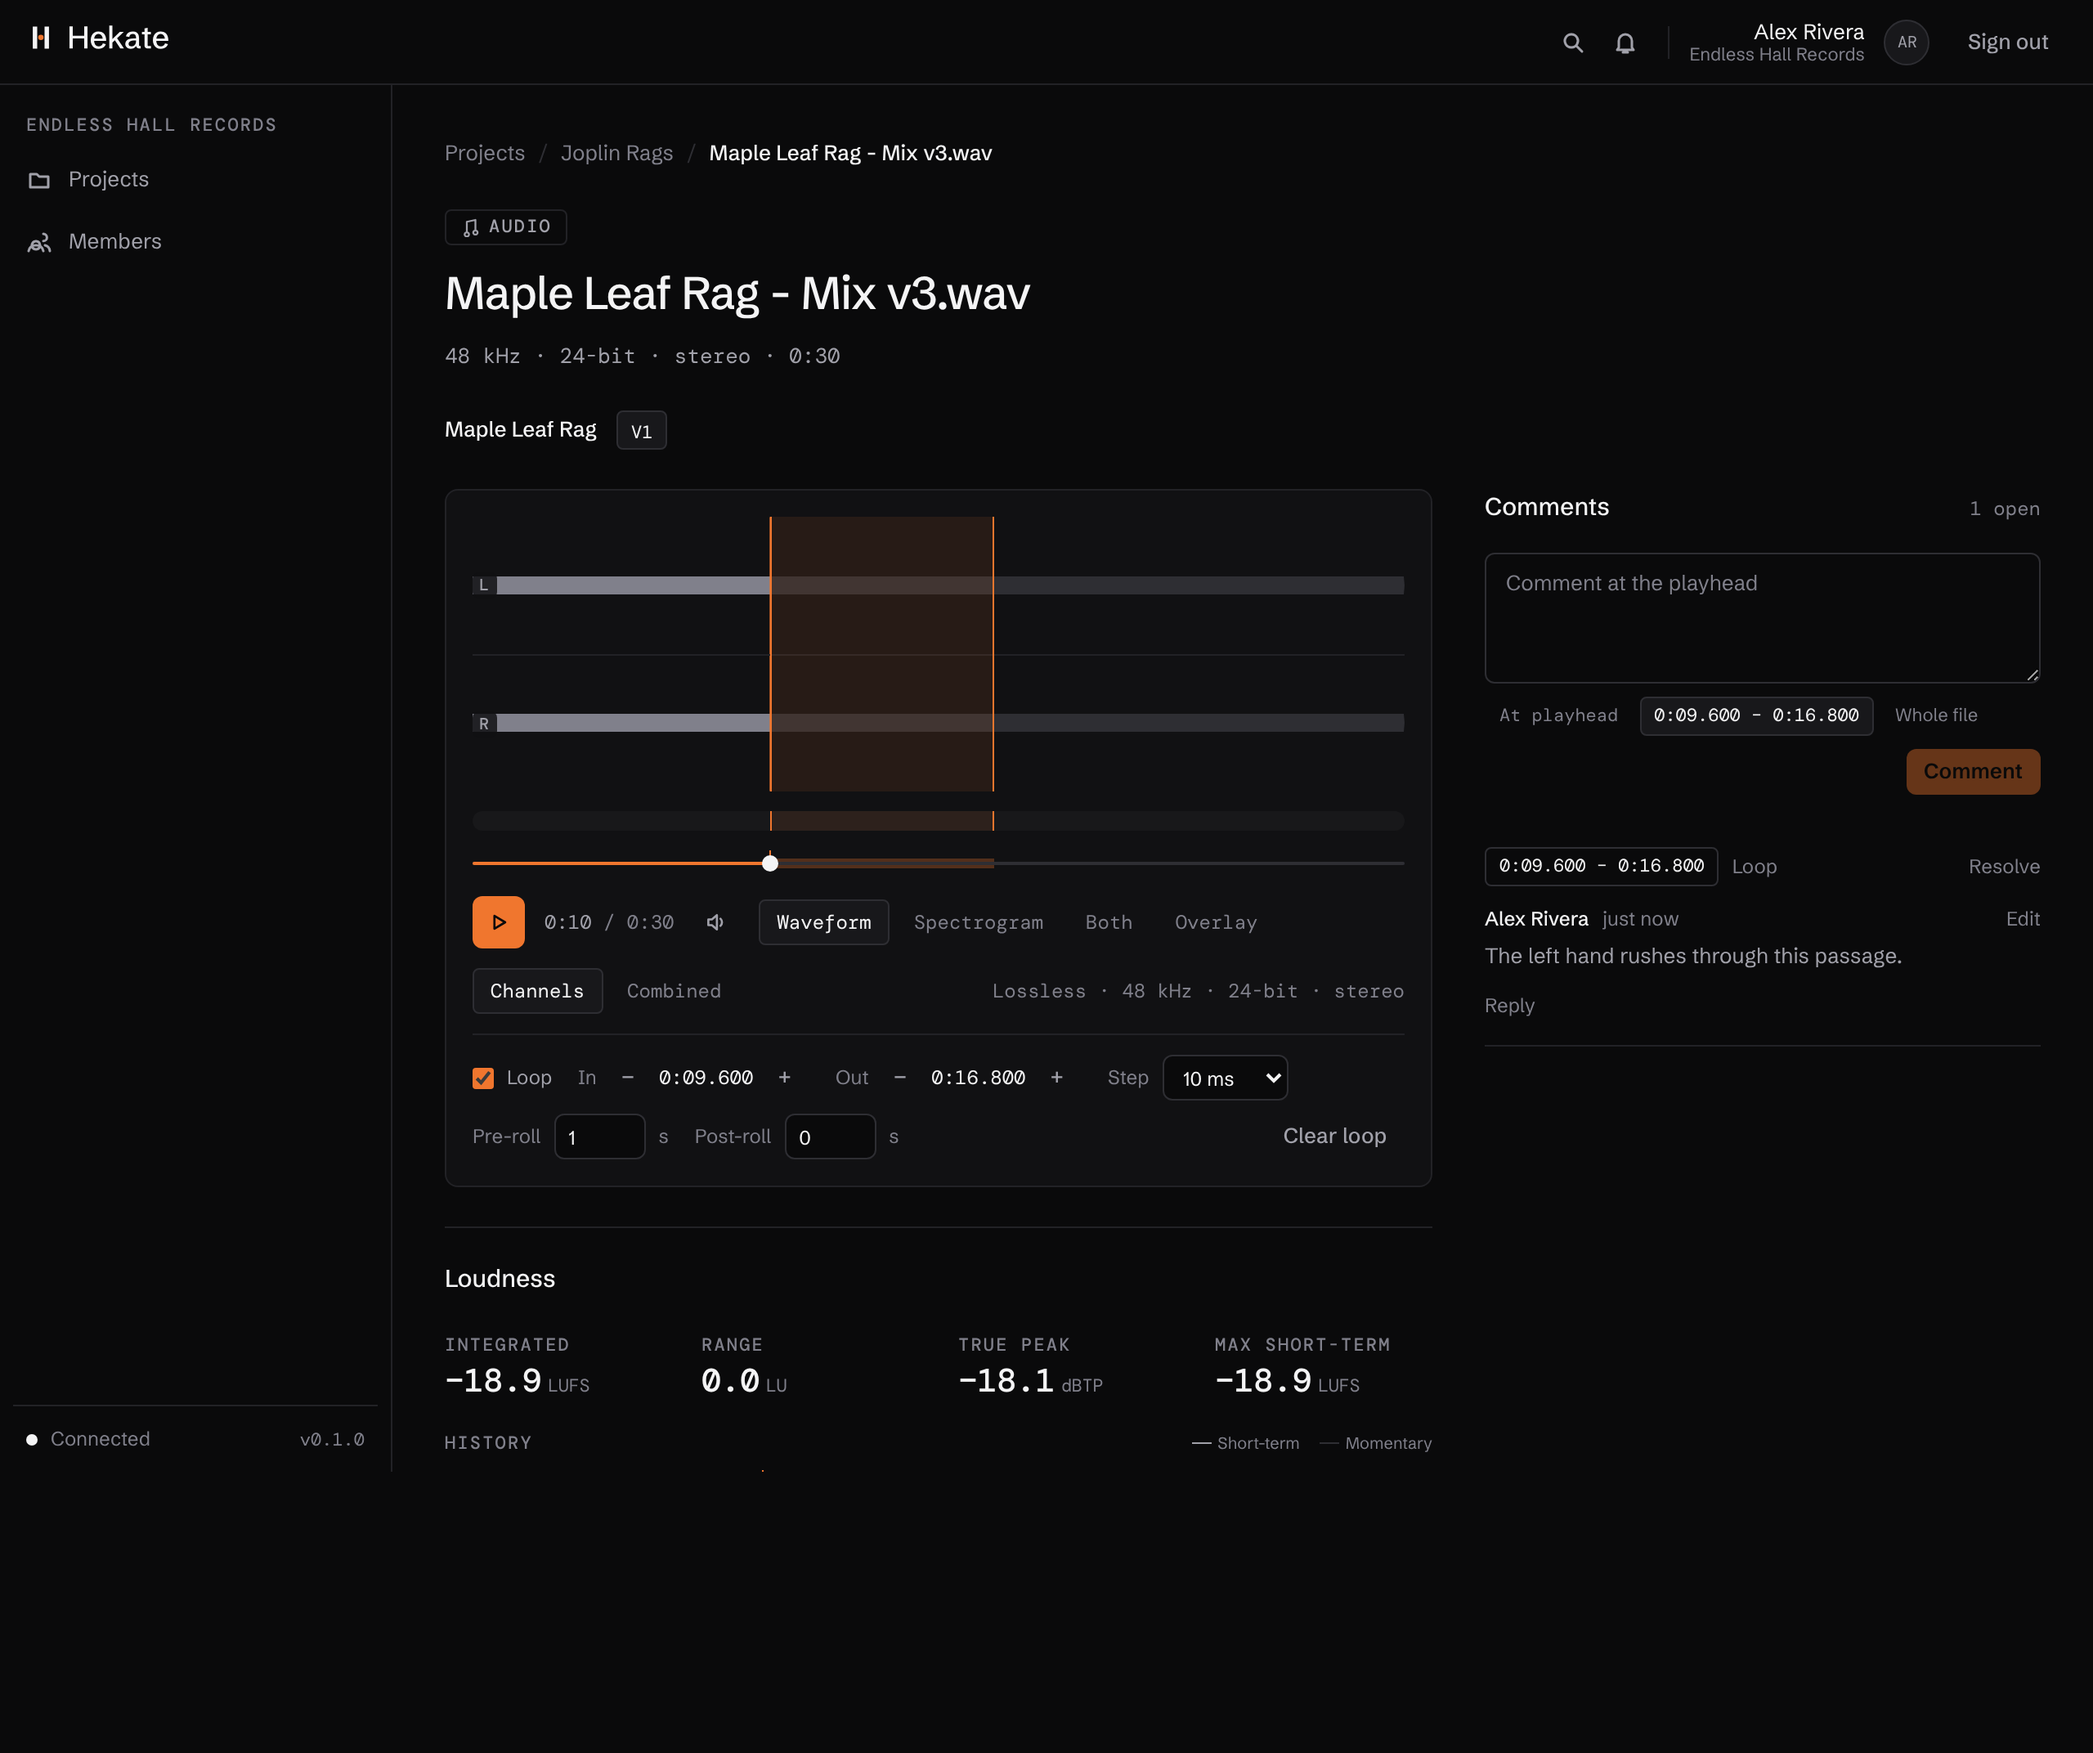
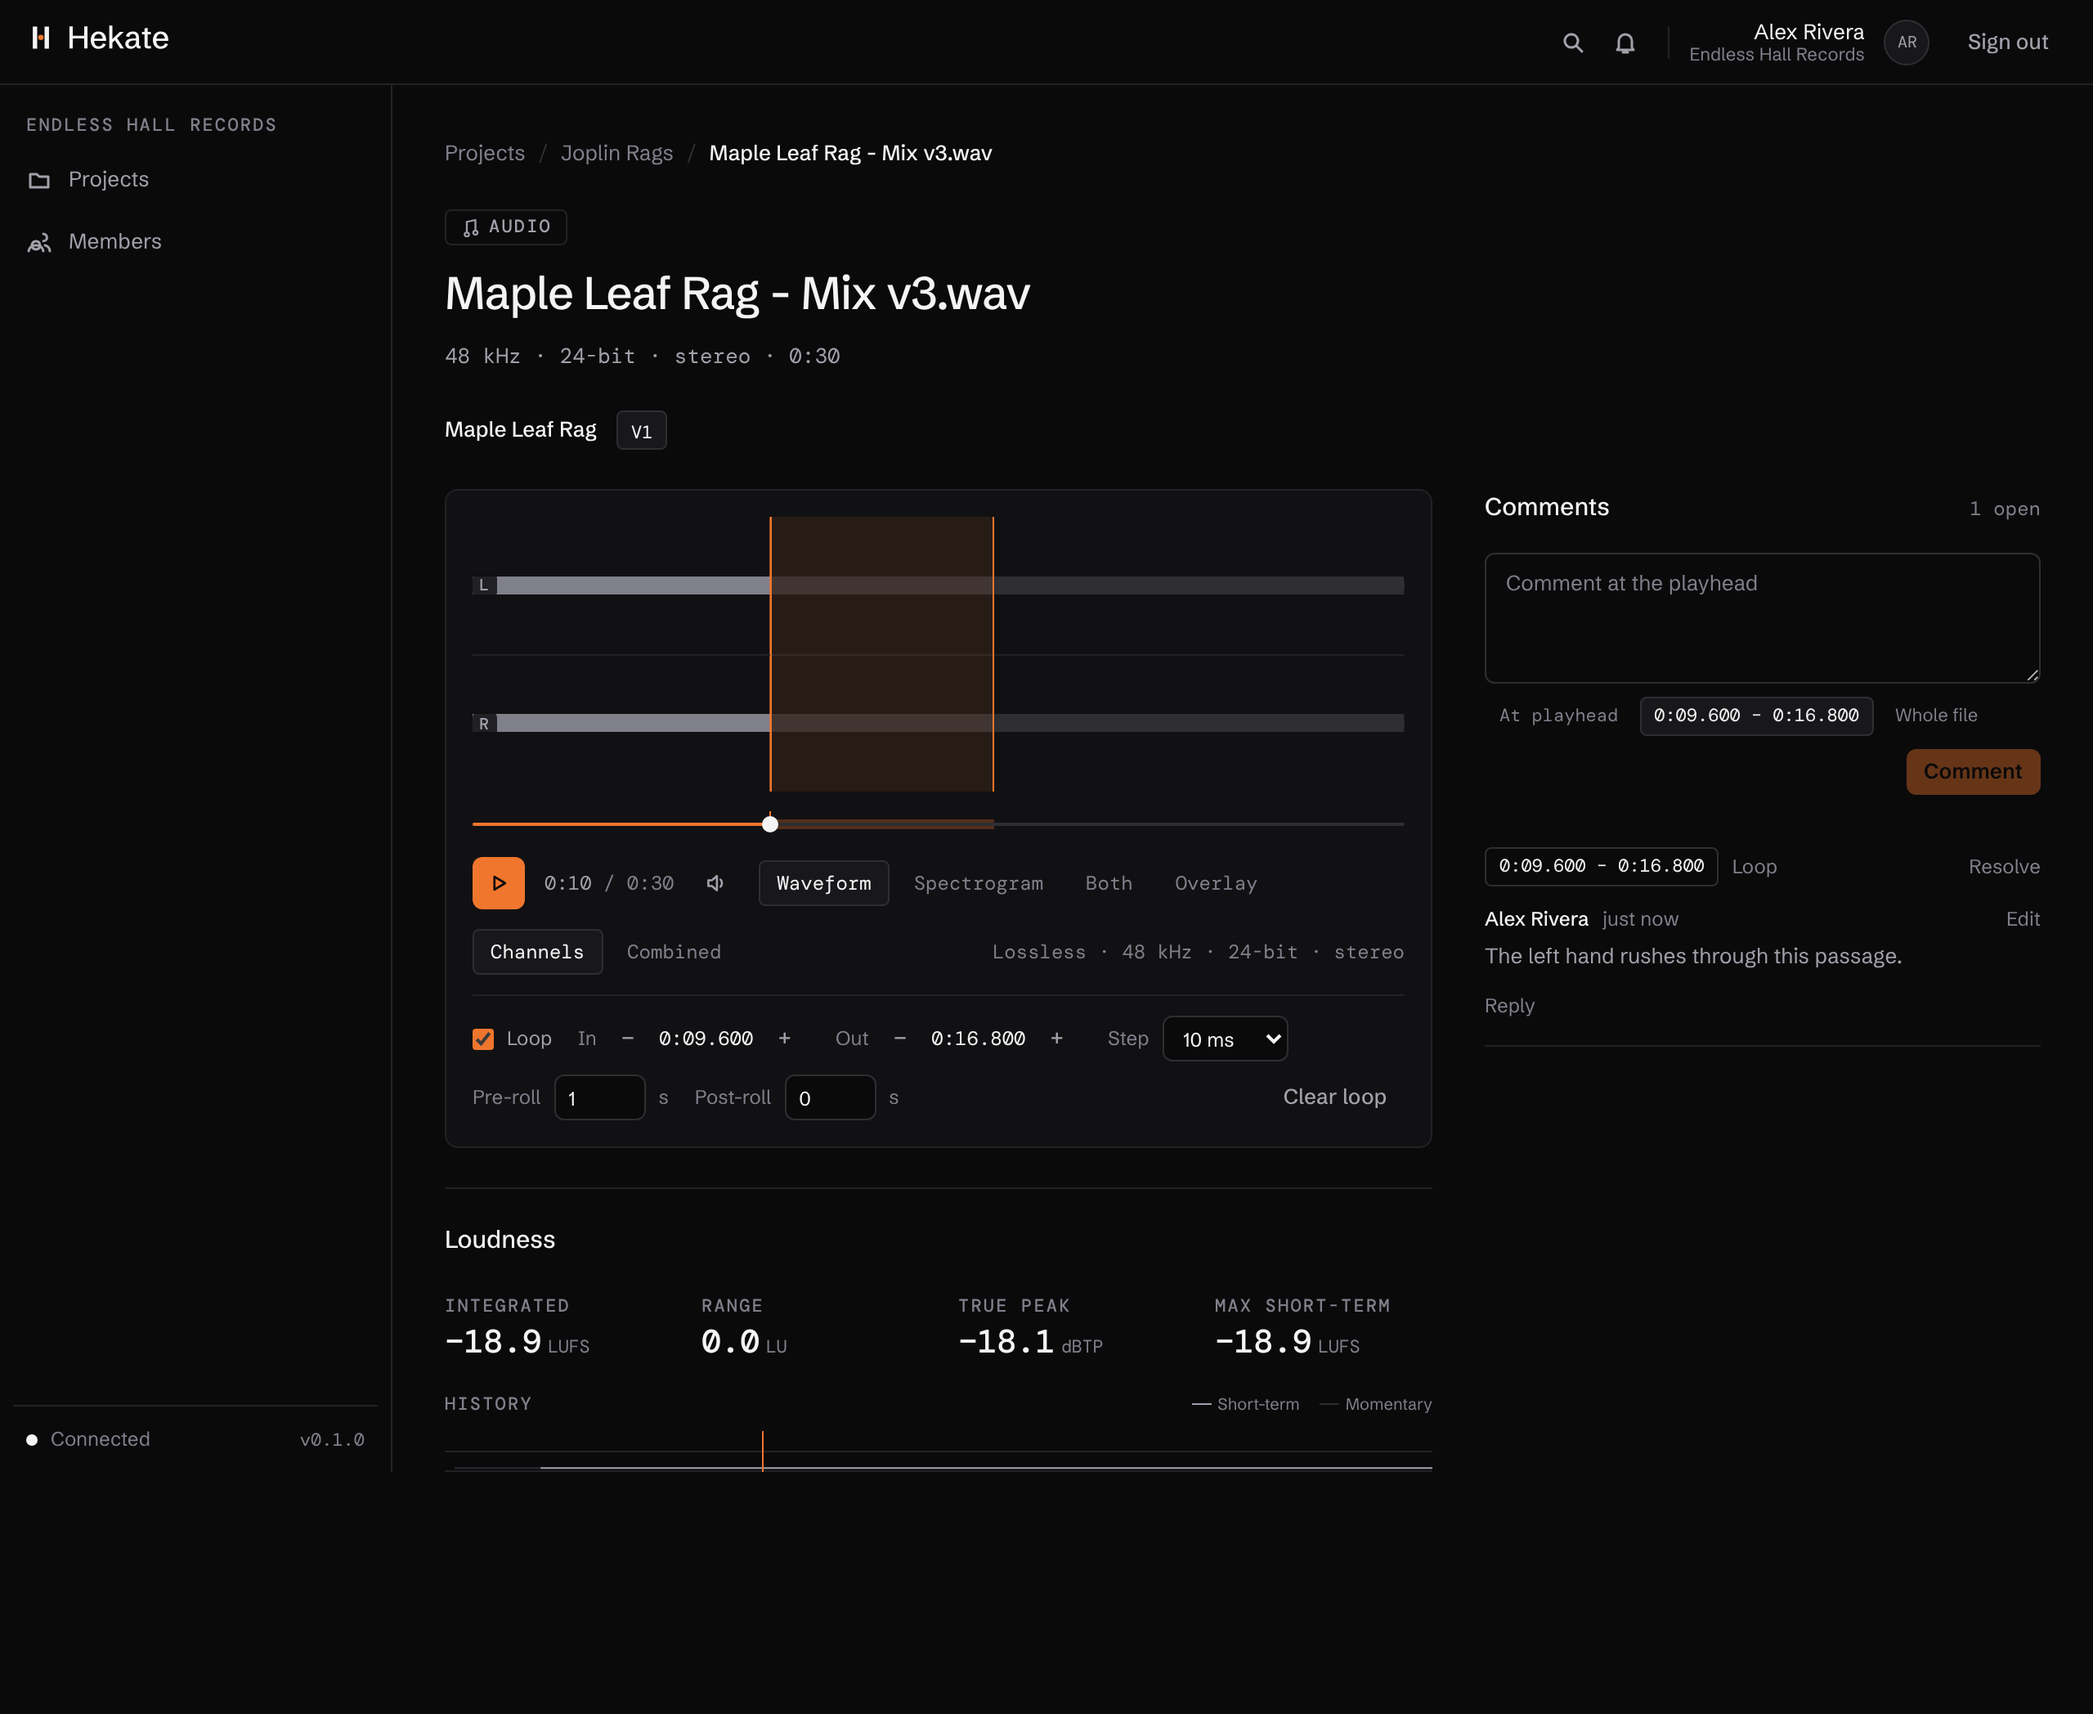
fix(web): loops keep keys, fit the file, and start from comments
Controls inside the player keep their own keys. A loop set from a
comment switches looping on and plays the passage. A loop that does not
fit the file is cut to it; the address is checked with zod. Only a loop
that runs to the end restarts there, and a failed restart says so. The
loop lane is for video alone, with a 28 px target.

Claude-Session: https://claude.ai/code/session_01NFVnDKxWxdqH1wjHhzokRU

diff --git a/apps/web/src/components/player.tsx b/apps/web/src/components/player.tsx
@@ -274,6 +274,21 @@ export function Player({
     }
   };
 
+  // A loop set from outside (a comment's Loop, a new address) is switched on.
+  // By value: the page makes a new loop object on every render.
+  const loopStart = loop?.start;
+  const loopEnd = loop?.end;
+  useEffect(() => {
+    if (loopStart !== undefined && loopEnd !== undefined) setLooping(true);
+  }, [loopStart, loopEnd]);
+
+  // A loop that does not fit this file (an address, or one carried from a longer version)
+  // is cut to it, or dropped if nothing of it is left.
+  useEffect(() => {
+    if (!loop || !(duration > 0) || loop.end <= duration) return;
+    onLoop(loopFrom(loop.start, Math.min(loop.end, duration), duration));
+  }, [loop, duration, onLoop]);
+
   // A page opened with a loop (from its address, or a switch of version) starts at it.
   const placed = useRef(false);
   useEffect(() => {
@@ -305,7 +320,18 @@ export function Player({
   };
 
   const onKeyDown = (event: KeyboardEvent) => {
-    if (event.target instanceof HTMLInputElement && event.key !== " ") return;
+    // Controls inside the player keep their own keys (Space ticks a box, opens a list);
+    // only the player itself and its position slider take the shortcuts.
+    const target = event.target as HTMLElement;
+    const slider = target instanceof HTMLInputElement && target.type === "range";
+    if (
+      !slider &&
+      target !== event.currentTarget &&
+      target.closest("input, select, textarea, button")
+    ) {
+      return;
+    }
+    if (slider && event.key !== " ") return;
     if (event.key === " " || event.key === "k") {
       event.preventDefault();
       toggle();
@@ -341,9 +367,14 @@ export function Player({
     onEnded: () => {
       // A loop that runs to the very end goes round when the media stops.
       const element = media.current;
-      if (element && loop && looping) {
+      // Only a loop that itself runs to the end; one earlier was left behind on purpose.
+      if (element && loop && looping && loop.end + rolls.post >= duration - 0.05) {
         element.currentTime = loopEntry(loop, rolls);
-        void element.play().catch(() => undefined);
+        element.play().catch((error: unknown) => {
+          if (error instanceof DOMException && error.name === "AbortError") return;
+          setPlaying(false);
+          setFailure("failed");
+        });
         return;
       }
       setPlaying(false);
@@ -456,16 +487,23 @@ export function Player({
               )}
             </LoopSurface>
           )}
-          {/* The loop lane: drag here to loop a passage of a video, or of audio too. */}
-          <LoopSurface
-            duration={duration}
-            loop={loop}
-            active={active}
-            onSeek={seek}
-            onLoop={setLoop}
-            label="Loop lane: drag to loop a passage"
-            className="h-3 rounded-full bg-hairline/40"
-          />
+          {/* Video has no waveform to drag on: the loop lane stands in for it. */}
+          {kind === "video" && (
+            <LoopSurface
+              duration={duration}
+              loop={loop}
+              active={active}
+              onSeek={seek}
+              onLoop={setLoop}
+              label="Loop lane: drag to loop a passage"
+              className="h-7"
+            >
+              <div
+                aria-hidden="true"
+                className="absolute inset-x-0 top-1/2 h-1.5 -translate-y-1/2 rounded-full bg-hairline/60"
+              />
+            </LoopSurface>
+          )}
           <div className="relative h-4">
             <div className="absolute inset-x-0 top-1/2 h-0.5 -translate-y-1/2 rounded-full bg-hairline" />
             {loop && duration > 0 && (

diff --git a/apps/web/src/router.tsx b/apps/web/src/router.tsx
@@ -7,6 +7,7 @@ import {
   redirect,
 } from "@tanstack/react-router";
 import { useCallback } from "react";
+import { z } from "zod";
 import { Shell } from "~/components/shell";
 import { formatLoop, parseLoop } from "~/lib/loop";
 import { guestMeQuery, meQuery, setupQuery } from "~/lib/queries";
@@ -24,8 +25,16 @@ import { TrackPage } from "~/routes/track";
 export const queryClient = new QueryClient({ defaultOptions: { queries: { staleTime: 10_000 } } });
 
 /** A file page's loop, from its address: kept only when it reads as one. */
+const loopSearchSchema = z.object({
+  loop: z
+    .string()
+    .max(40)
+    .refine((text) => parseLoop(text) !== null)
+    .optional()
+    .catch(undefined),
+});
 const loopSearch = (search: Record<string, unknown>): { loop?: string } =>
-  typeof search.loop === "string" && parseLoop(search.loop) ? { loop: search.loop } : {};
+  loopSearchSchema.parse(search);
 
 const root = createRootRouteWithContext<{ queryClient: QueryClient }>()({
   component: Outlet,

diff --git a/apps/web/src/routes/file.tsx b/apps/web/src/routes/file.tsx
@@ -173,7 +173,14 @@ export function FilePage({
           projectId={file.projectId}
           media={media}
           loop={loop}
-          onLoop={onLoop}
+          onLoop={(next) => {
+            // One action: the passage is looped and heard from its start.
+            onLoop(next);
+            if (media) {
+              media.currentTime = next.start;
+              void media.play().catch(() => undefined);
+            }
+          }}
         />
         <dl className="m-0 flex flex-col border-t border-hairline lg:hidden">{detailRows}</dl>
       </div>
